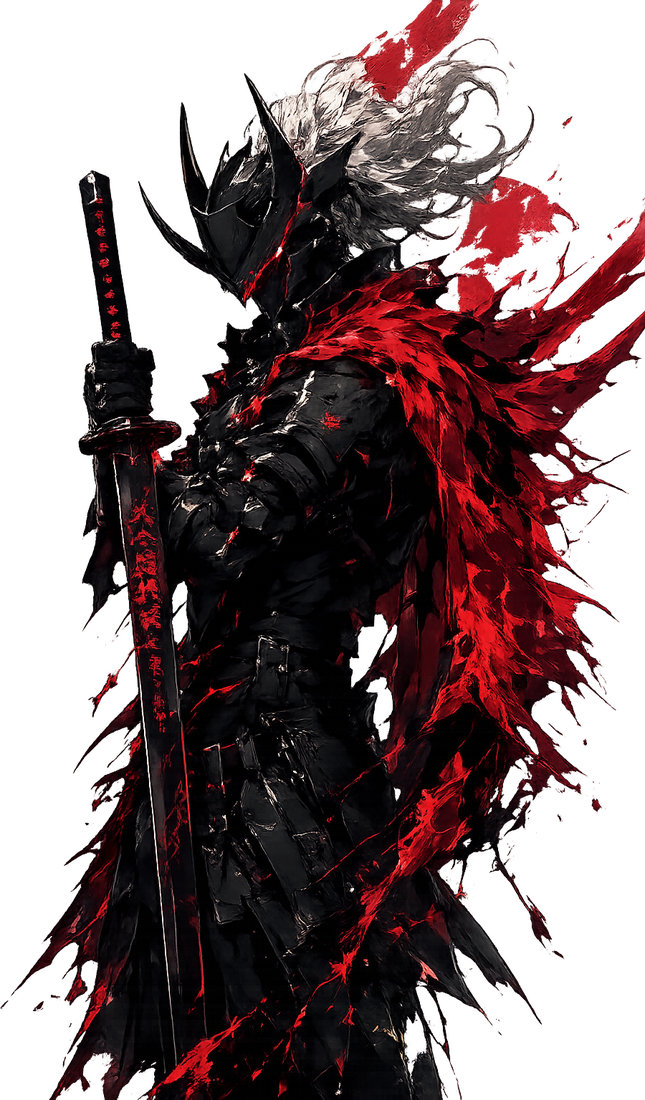
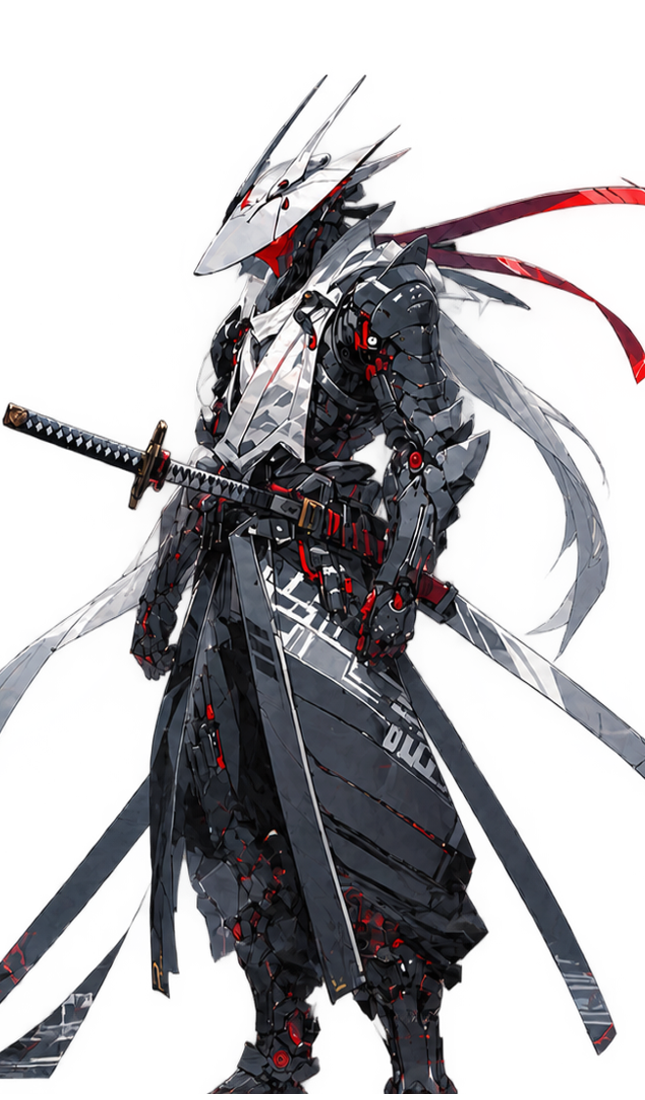
adding

diff --git a/src/focus_mode/ui/pages/tasks_page.py b/src/focus_mode/ui/pages/tasks_page.py
@@ -51,6 +51,7 @@ class TaskRow(QFrame):
     def __init__(self, task: Task, active: bool) -> None:
         super().__init__()
         self.task = task
+        self.active = active
         self.setObjectName("TaskCard")  # every task is its own card (see theme.py)
         self.setAttribute(Qt.WidgetAttribute.WA_StyledBackground, True)
         self.signature = self.make_signature(task, active)
@@ -87,7 +88,17 @@ class TaskRow(QFrame):
         lay.addLayout(col, 1)
 
         if active:
-            lay.addWidget(label("● focusing", "accent"))
+            # Clicking the tag undoes "Focus on this task".
+            tag = QPushButton("● focusing")
+            tag.setFlat(True)
+            tag.setCursor(Qt.CursorShape.PointingHandCursor)
+            tag.setToolTip("Click to stop focusing on this task")
+            tag.setStyleSheet(
+                "QPushButton{border:0;background:transparent;padding:2px 4px;font-weight:700;color:%s}"
+                "QPushButton:hover{text-decoration:underline}" % theme.c("accent").name()
+            )
+            tag.clicked.connect(lambda: self.action.emit(self.task.id, "unfocus"))
+            lay.addWidget(tag)
         lay.addWidget(PriorityChip(task.priority))
 
         more = QPushButton()
@@ -124,7 +135,9 @@ class TaskRow(QFrame):
 
     def _menu(self, anchor: QWidget) -> None:
         menu = QMenu(self)
-        if not self.task.done:
+        if self.active:
+            menu.addAction("Stop focusing on this task").triggered.connect(lambda: self.action.emit(self.task.id, "unfocus"))
+        elif not self.task.done:
             menu.addAction("Focus on this task").triggered.connect(lambda: self.action.emit(self.task.id, "focus"))
         menu.addAction("Edit").triggered.connect(lambda: self.action.emit(self.task.id, "edit"))
         menu.addSeparator()
@@ -427,6 +440,10 @@ class TasksPage(QWidget):
         if what == "focus":
             self.svc.set_active_task(task_id)
             self.svc.toast.emit("ok", f"Sessions will count toward “{task.title}”.")
+        elif what == "unfocus":
+            if self.svc.active_task_id == task_id:
+                self.svc.set_active_task(None)
+                self.svc.toast.emit("ok", f"No longer focusing on “{task.title}”.")
         elif what == "delete":
             if self.svc.active_task_id == task_id:
                 self.svc.set_active_task(None)
